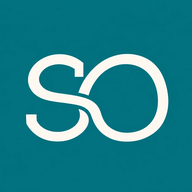
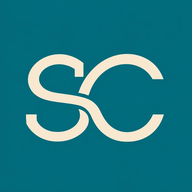
Update 5 files

Changed region(s): [[0.125, 0.2812, 0.9062, 0.75]]

diff --git a/index.html b/index.html
@@ -3,8 +3,15 @@
 <head>
 <meta charset="utf-8">
 <meta name="viewport" content="width=device-width, initial-scale=1, viewport-fit=cover">
-<title>SmartDeals – Les deals</title>
-<meta name="description" content="Les deals Amazon.ca de SmartDeals, avec l'historique de prix de chaque produit et le prix revérifié pendant la journée.">
+<title>SmartDeals Club – Les deals</title>
+<meta name="description" content="Les deals Amazon.ca de SmartDeals Club, avec l'historique de prix de chaque produit et le prix revérifié pendant la journée.">
+<!-- Link previews (Facebook, Messenger, iMessage...): the SC logo with the address -->
+<meta property="og:title" content="SmartDeals Club – Les bas prix historiques Amazon Canada">
+<meta property="og:description" content="Les deals Amazon.ca, avec l'historique de prix de chaque produit et le prix revérifié pendant la journée.">
+<meta property="og:image" content="https://smartdealsclub.com/share.jpg">
+<meta property="og:url" content="https://smartdealsclub.com/">
+<meta property="og:type" content="website">
+<meta name="twitter:card" content="summary_large_image">
 <meta name="theme-color" content="#ffffff">
 <link rel="icon" href="icon.png">
 <link rel="apple-touch-icon" href="icon.png">
@@ -105,7 +112,7 @@
   .score { flex: none; position: relative; display: flex; align-items: center; margin-top: 10px;   /* room for the flames */
            filter: drop-shadow(0 2px 4px rgba(15, 23, 42, .18)); }
   .score .logo { position: relative; z-index: 1; width: 34px; height: 34px; border-radius: 9px;
-                 border: 1.5px solid #fff; background: var(--teal) url(so.png) center / cover; }
+                 border: 1.5px solid #fff; background: var(--teal) url(sc.png) center / cover; }
   .score .fl { position: absolute; left: 50%; bottom: 25px; transform: translateX(-50%); font-size: 14px;
                letter-spacing: -4px; white-space: nowrap; line-height: 1; padding-right: 4px; }
   .score .num { background: var(--yellow); color: #111; font-weight: 900; font-size: .95rem; line-height: 1;
@@ -167,7 +174,7 @@
   <div class="wrap wide">
     <div class="brand">
       <img src="icon.png" alt="">
-      <div><b>SMART<span>DEALS</span></b><small id="sub">Les deals Amazon.ca, avec la preuve</small></div>
+      <div><b>SMART<span>DEALS</span> CLUB</b><small id="sub">Les deals Amazon.ca, avec la preuve</small></div>
     </div>
     <label class="search">
       <svg width="18" height="18" viewBox="0 0 24 24" fill="none" stroke="currentColor" stroke-width="2.4" stroke-linecap="round"><circle cx="11" cy="11" r="7"/><path d="m20 20-3.5-3.5"/></svg>
@@ -244,7 +251,7 @@
     <a href="https://www.threads.com/@smartdeals1337">Threads</a>
   </div>
   <p>Prix vérifiés à l'heure indiquée sur chaque deal. Les prix Amazon changent vite : le prix final est celui affiché sur Amazon.</p>
-  <p>Liens affiliés : en tant que Partenaire Amazon, SmartDeals touche une commission sur les achats admissibles, sans frais pour toi.<br>As an Amazon Associate I earn from qualifying purchases.</p>
+  <p>Liens affiliés : en tant que Partenaire Amazon, SmartDeals Club touche une commission sur les achats admissibles, sans frais pour toi.<br>As an Amazon Associate I earn from qualifying purchases.</p>
 </footer>
 
 <script>
